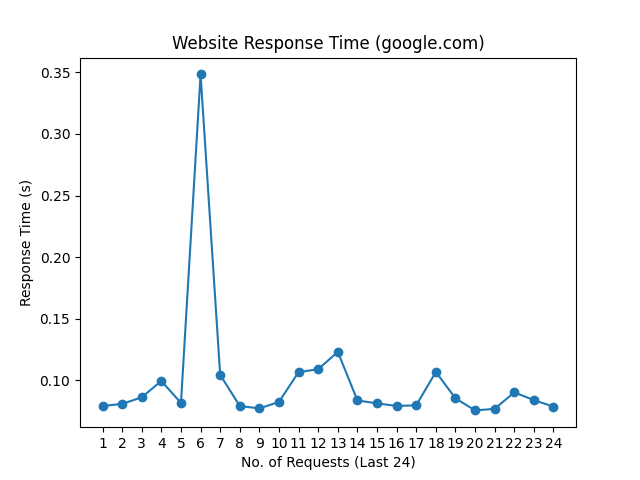
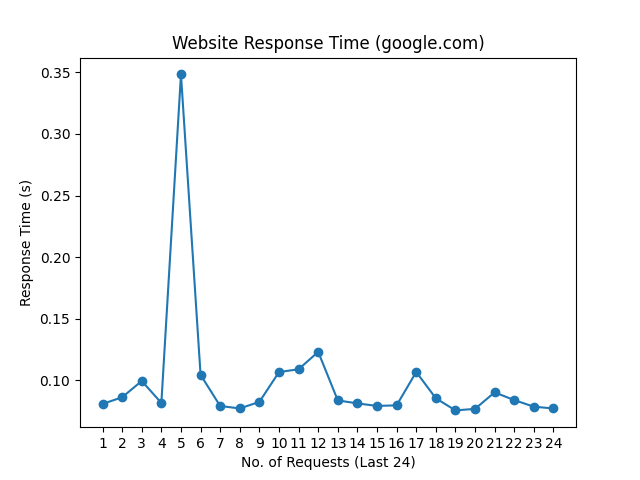
update README.md, history and graph

Changed region(s): [[0.1562, 0.125, 0.875, 0.875]]

diff --git a/README.md b/README.md
@@ -1,10 +1,10 @@
 # Web Monitoring
 
-Last Checked: 25/12/2024 08:20
+Last Checked: 26/12/2024 08:19
 
 | Website | Response Time (s) | Status | Avg Uptime (%) |
 |---------|-------------------|--------|----------------|
 | www.thiswebsiteisdown.net | 0 <br> <img src="graph/thiswebsiteisdown.net.png" alt="Graph" width="200" height="200">  | ❌ Down | 0.00 |
-| www.netflix.com | 1.531174 <br> <img src="graph/netflix.com.png" alt="Graph" width="200" height="200">  | ✅ Up | 99.80 |
-| www.google.com | 0.078742 <br> <img src="graph/google.com.png" alt="Graph" width="200" height="200">  | ✅ Up | 100.00 |
-| www.facebook.com | 0.954383 <br> <img src="graph/facebook.com.png" alt="Graph" width="200" height="200">  | ✅ Up | 100.00 |
+| www.netflix.com | 1.629906 <br> <img src="graph/netflix.com.png" alt="Graph" width="200" height="200">  | ✅ Up | 99.80 |
+| www.google.com | 0.077260 <br> <img src="graph/google.com.png" alt="Graph" width="200" height="200">  | ✅ Up | 100.00 |
+| www.facebook.com | 0.282997 <br> <img src="graph/facebook.com.png" alt="Graph" width="200" height="200">  | ✅ Up | 100.00 |
